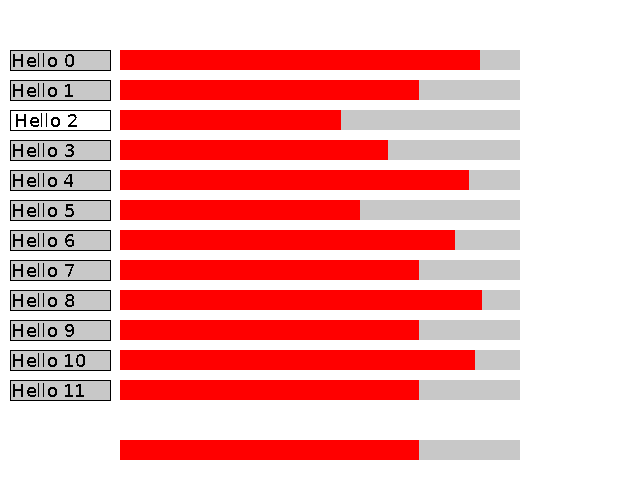
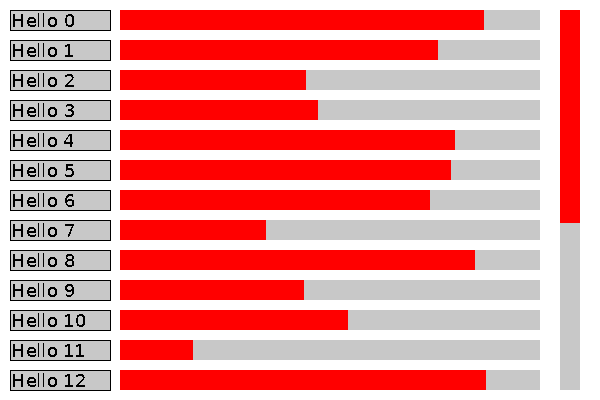
Implement vertical sliders

diff --git a/immui.rb b/immui.rb
@@ -156,18 +156,22 @@ def ev_coord_to_slider_value(ev_x, x, w)
     end
 end
 
-def slider_x(renderer, x, y, w, h, ui_state, &on_change)
+def slider(renderer, x, y, w, h, is_horizontal, ui_state, &on_change)
     coords = [x, y, w, h]
     slider_val = ui_state[:value] || 0.0
 
     renderer.fill_rect x, y, w, h, renderer.gray(200)
-    renderer.fill_rect x, y, [(slider_val * w).to_i, w].min, h, renderer.rgb(255, 0, 0)
+    if is_horizontal
+        renderer.fill_rect x, y, [(slider_val * w).to_i, w].min, h, renderer.rgb(255, 0, 0)
+    else
+        renderer.fill_rect x, y, w, [(slider_val * h).to_i, h].min, renderer.rgb(255, 0, 0)
+    end
 
     if not ui_state[:pressed]
 	evh = {:type => :mouse_down, coords: coords, callback: proc {|ev| 
 	    if not ui_state[:pressed]
 	        ui_state[:pressed] = true
-		ui_state[:value] = ev_coord_to_slider_value(ev.x, x, w)
+	        ui_state[:value] = is_horizontal ? ev_coord_to_slider_value(ev.x, x, w) : ev_coord_to_slider_value(ev.y, y, h)
     	        on_change.call(ui_state) if on_change
 		true
 	    else
@@ -179,7 +183,7 @@ def slider_x(renderer, x, y, w, h, ui_state, &on_change)
 	evh1 = {:type => :mouse_up, callback: proc {|ev|
 	    if ui_state[:pressed] == true
 	        ui_state[:pressed] = false
-		ui_state[:value] = ev_coord_to_slider_value(ev.x, x, w)
+	        ui_state[:value] = is_horizontal ? ev_coord_to_slider_value(ev.x, x, w) : ev_coord_to_slider_value(ev.y, y, h)
     	        on_change.call(ui_state) if on_change
 		true
 	    else
@@ -189,7 +193,7 @@ def slider_x(renderer, x, y, w, h, ui_state, &on_change)
 
 	evh2 = {:type => :mouse_move, callback: proc {|ev|
 	    if ui_state[:pressed] == true
-		ui_state[:value] = ev_coord_to_slider_value(ev.x, x, w)
+	        ui_state[:value] = is_horizontal ? ev_coord_to_slider_value(ev.x, x, w) : ev_coord_to_slider_value(ev.y, y, h)
     	        on_change.call(ui_state) if on_change
 		true
 	    else
@@ -199,6 +203,15 @@ def slider_x(renderer, x, y, w, h, ui_state, &on_change)
 	renderer.register_event_handler(evh1)
 	renderer.register_event_handler(evh2)
     end
+
+end
+
+def slider_x(renderer, x, y, w, h, ui_state, &on_change)
+    slider(renderer, x, y, w, h, true, ui_state, &on_change)
+end
+
+def slider_y(renderer, x, y, w, h, ui_state, &on_change)
+    slider(renderer, x, y, w, h, false, ui_state, &on_change)
 end
 
 def button(renderer, x, y, w, h, label, ui_state, &on_click)

diff --git a/example.rb b/example.rb
@@ -2,12 +2,12 @@ $LOAD_PATH.unshift "."
 require 'immui'
 
 if __FILE__ == $0
-    UI.new(640, 480, "immui", '/usr/local/share/fonts/dejavu/DejaVuSans.ttf', 18).run do |renderer, ui_state| 
-	for y, i in 50.step(400, 30).with_index
+    UI.new(600, 400, "immui", '/usr/local/share/fonts/dejavu/DejaVuSans.ttf', 18).run do |renderer, ui_state| 
+	for y, i in 10.step(380, 30).with_index
 	    button(renderer, 10, y, 100, 20, "Hello #{i}", lazy(ui_state, :"button#{i}")) do |ui_s| p ui_s end
-	    slider_x(renderer, 120, y, 400, 20, lazy(ui_state, :"slider#{i}")) do end
+	    slider_x(renderer, 120, y, 420, 20, lazy(ui_state, :"slider#{i}")) do end
 	end
-	slider_x(renderer, 120, 440, 400, 20, lazy(ui_state, :global_slider)) do |state|
+	slider_y(renderer, 560, 10, 20, 380, lazy(ui_state, :global_slider)) do |state|
 	    # Update all other sliders with the same value as the global slider
 	    ui_state.each_pair {|k, v|
 		if k.to_s.start_with?("slider")

diff --git a/README.md b/README.md
@@ -3,6 +3,10 @@
 This is a proof-of-concept immediate mode UI (aka "hack").
 For now this is written in Ruby.
 
+## Widgets
+
+For now we only have buttons and horizontal and vertical sliders :)
+
 ## Screenshot
 
 ![Screenshot of UI](/images/screenshot.png?raw=true "Screenshot")
